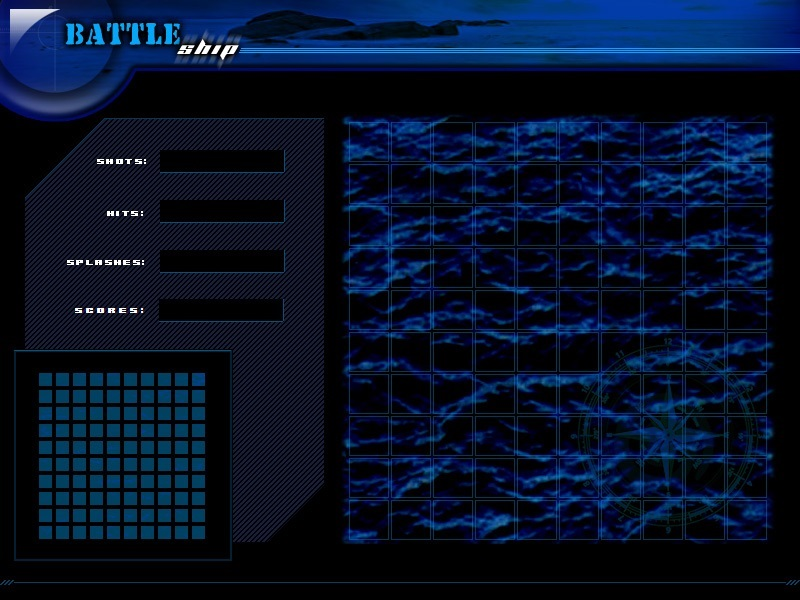
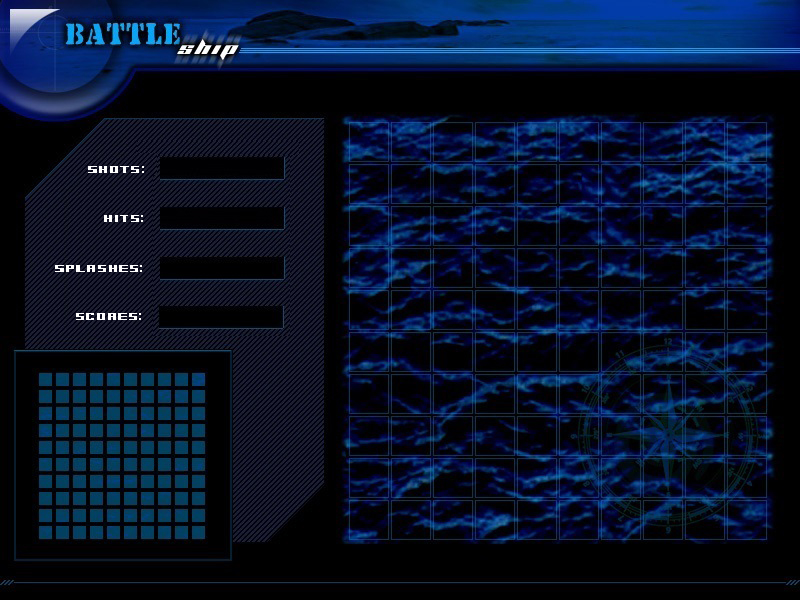
Improve game fonts' visibility

Changed region(s): [[0.0625, 0.24, 0.375, 0.57], [0.125, 0.33, 0.1562, 0.39]]

diff --git a/src/MenuController.cs b/src/MenuController.cs
@@ -25,7 +25,7 @@ static class MenuController
 	private static readonly string [] [] _menuStructure = {
 		new string[] {
 			"PLAY",
-			"SETUP",
+			"DIFFICULTY",
 			"SCORES",
 			"QUIT"
 		},
@@ -43,11 +43,11 @@ static class MenuController
 	};
 	private static string CURRENT_DIFFICULTY = "Hard";
 
-	private const int MENU_TOP = 575;
-	private const int MENU_LEFT = 30;
-	private const int MENU_GAP = 0;
-	private const int BUTTON_WIDTH = 75;
-	private const int BUTTON_HEIGHT = 15;
+	private const int MENU_TOP = 565;
+	private const int MENU_LEFT = 50;
+	private const int MENU_GAP = 15;
+	private const int BUTTON_WIDTH = 155;
+	private const int BUTTON_HEIGHT = 25;
 	private const int BUTTON_SEP = BUTTON_WIDTH + MENU_GAP;
 
 	private const int TEXT_OFFSET = 0;
@@ -145,7 +145,7 @@ static class MenuController
 		//Clears the Screen to Black
 		SwinGame.DrawText ("Main Menu", Color.White, GameResources.GameFont ("ArialLarge"), 50, 50);
 
-		SwinGame.DrawTextLines ("Difficulty:   " + CURRENT_DIFFICULTY, Color.White, Color.Transparent, GameResources.GameFont ("MenuLarge"), FontAlignment.AlignCenter, 210, 493, SwinGame.ScreenWidth(), SwinGame.ScreenHeight());
+		SwinGame.DrawTextLines ("Difficulty:   " + CURRENT_DIFFICULTY, Color.White, Color.Transparent, GameResources.GameFont ("MenuLarge"), FontAlignment.AlignCenter, 180, 443, SwinGame.ScreenWidth(), SwinGame.ScreenHeight());
 		DrawButtons (MAIN_MENU);
 	}
 
@@ -169,7 +169,7 @@ static class MenuController
 	public static void DrawSettings ()
 	{
 		//Clears the Screen to Black
-		SwinGame.DrawText ("Settings", Color.White, GameResources.GameFont ("ArialLarge"), 50, 50);
+		SwinGame.DrawText ("Difficulty", Color.White, GameResources.GameFont ("ArialLarge"), 50, 50);
 
 		DrawButtons (MAIN_MENU);
 		DrawButtons (SETUP_MENU, 1, 1);
@@ -197,15 +197,15 @@ static class MenuController
 	/// </remarks>
 	private static void DrawButtons (int menu, int level, int xOffset)
 	{
-		int btnTop = 0;
+		int btnTop = 10;
 
 		btnTop = MENU_TOP - (MENU_GAP + BUTTON_HEIGHT) * level;
 		int i = 0;
 		for (i = 0; i <= _menuStructure [menu].Length - 1; i++) {
 			int btnLeft = 0;
 			btnLeft = MENU_LEFT + BUTTON_SEP * (i + xOffset);
-			SwinGame.FillRectangle (Color.White, btnLeft, btnTop, BUTTON_WIDTH, BUTTON_HEIGHT);
-			SwinGame.DrawTextLines (_menuStructure [menu] [i], MENU_COLOR, Color.Black, GameResources.GameFont ("Menu"), FontAlignment.AlignCenter, btnLeft + TEXT_OFFSET, btnTop + TEXT_OFFSET, BUTTON_WIDTH, BUTTON_HEIGHT);
+			//SwinGame.FillRectangle (Color.White, btnLeft, btnTop, BUTTON_WIDTH, BUTTON_HEIGHT);
+			SwinGame.DrawTextLines (_menuStructure [menu] [i], MENU_COLOR, Color.Black, GameResources.GameFont ("MenuMedium"), FontAlignment.AlignCenter, btnLeft + TEXT_OFFSET, btnTop + TEXT_OFFSET, BUTTON_WIDTH, BUTTON_HEIGHT);
 
 			if (SwinGame.MouseDown (MouseButton.LeftButton) & IsMouseOverMenu (i, level, xOffset)) {
 				SwinGame.DrawRectangle (HIGHLIGHT_COLOR, btnLeft, btnTop, BUTTON_WIDTH, BUTTON_HEIGHT);

diff --git a/src/HighScoreController.cs b/src/HighScoreController.cs
@@ -18,7 +18,7 @@ static class HighScoreController
 {
 	private const int NAME_WIDTH = 3;
 
-	private const int SCORES_LEFT = 490;
+	private const int SCORES_LEFT = 510;
 	/// <summary>
 	/// The score structure is used to keep the name and
 	/// score of the top players together.
@@ -118,14 +118,16 @@ static class HighScoreController
 	/// </summary>
 	public static void DrawHighScores ()
 	{
-		const int SCORES_HEADING = 40;
-		const int SCORES_TOP = 80;
+		SwinGame.DrawText ("Scoreboard", Color.White, GameResources.GameFont ("ArialLarge"), 50, 50);
+
+		const int SCORES_HEADING = 70;
+		const int SCORES_TOP = 120;
 		const int SCORE_GAP = 30;
 
 		if (_Scores.Count == 0)
 			LoadScores ();
 
-		SwinGame.DrawText ("   High Scores   ", Color.White, GameResources.GameFont ("Courier"), SCORES_LEFT, SCORES_HEADING);
+		SwinGame.DrawText (" High Scores ", SwinGame.RGBAColor (2, 167, 252, 255), GameResources.GameFont ("MenuLarge"), SCORES_LEFT - 25, SCORES_HEADING);
 
 		//For all of the scores
 		int i = 0;
@@ -136,9 +138,9 @@ static class HighScoreController
 
 			//for scores 1 - 9 use 01 - 09
 			if (i < 9) {
-				SwinGame.DrawText (" " + (i + 1) + ":   " + s.Name + "   " + s.Value, Color.White, GameResources.GameFont ("Courier"), SCORES_LEFT, SCORES_TOP + i * SCORE_GAP);
+				SwinGame.DrawText (" " + (i + 1) + ":   " + s.Name + "   " + s.Value, Color.White, GameResources.GameFont ("MenuMedium"), SCORES_LEFT, SCORES_TOP + i * SCORE_GAP);
 			} else {
-				SwinGame.DrawText (i + 1 + ":   " + s.Name + "   " + s.Value, Color.White, GameResources.GameFont ("Courier"), SCORES_LEFT, SCORES_TOP + i * SCORE_GAP);
+				SwinGame.DrawText (i + 1 + ":   " + s.Name + "   " + s.Value, Color.White, GameResources.GameFont ("MenuMedium"), SCORES_LEFT, SCORES_TOP + i * SCORE_GAP);
 			}
 		}
 	}

diff --git a/src/GameResources.cs b/src/GameResources.cs
@@ -13,12 +13,14 @@ public static class GameResources
 
 	private static void LoadFonts ()
 	{
-		NewFont ("ArialLarge", "arial.ttf", 80);
+		NewFont ("ArialLarge", "arial.ttf", 60);
 		NewFont ("ArialSmall", "arial.ttf", 20);
-		NewFont ("Courier", "cour.ttf", 14);
+		NewFont ("CourierLarge", "cour.ttf", 24);
+		NewFont ("Courier", "cour.ttf", 16);
 		NewFont ("CourierSmall", "cour.ttf", 8);
-		NewFont ("Menu", "ffaccess.ttf", 8);
-		NewFont ("MenuLarge", "ffaccess.ttf", 15);
+		NewFont ("Menu", "ffaccess.ttf", 12);
+		NewFont ("MenuMedium", "ffaccess.ttf", 16);
+		NewFont ("MenuLarge", "ffaccess.ttf", 20);
 	}
 
 	private static void LoadImages ()

diff --git a/src/DeploymentController.cs b/src/DeploymentController.cs
@@ -150,10 +150,12 @@ static class DeploymentController
 				}
 
 				SwinGame.DrawRectangle (Color.Black, SHIPS_LEFT, SHIPS_TOP + i * SHIPS_HEIGHT, SHIPS_WIDTH, SHIPS_HEIGHT);
-				SwinGame.DrawText (sn.ToString (), Color.White, GameResources.GameFont ("Courier"), SHIPS_LEFT + TEXT_OFFSET, SHIPS_TOP + i * SHIPS_HEIGHT);
+				SwinGame.DrawText (sn.ToString (), Color.White, GameResources.GameFont ("Menu"), SHIPS_LEFT + TEXT_OFFSET, SHIPS_TOP + i * SHIPS_HEIGHT);
 
 			}
 		}
+
+
 
 		if (GameController.HumanPlayer.ReadyToDeploy) {
 			SwinGame.DrawBitmap (GameResources.GameImage ("PlayButton"), PLAY_BUTTON_LEFT, TOP_BUTTONS_TOP);

diff --git a/src/DiscoveryController.cs b/src/DiscoveryController.cs
@@ -87,6 +87,7 @@ static class DiscoveryController
 		UtilityFunctions.DrawMessage ();
 
 		SwinGame.DrawBitmap (GameResources.GameImage("PauseButton"), 722, 72);
+
 		SwinGame.DrawText (GameController.HumanPlayer.Shots.ToString (), Color.White, GameResources.GameFont ("Menu"), SCORES_LEFT, SHOTS_TOP);
 		SwinGame.DrawText (GameController.HumanPlayer.Hits.ToString (), Color.White, GameResources.GameFont ("Menu"), SCORES_LEFT, HITS_TOP);
 		SwinGame.DrawText (GameController.HumanPlayer.Missed.ToString (), Color.White, GameResources.GameFont ("Menu"), SCORES_LEFT, SPLASH_TOP);
